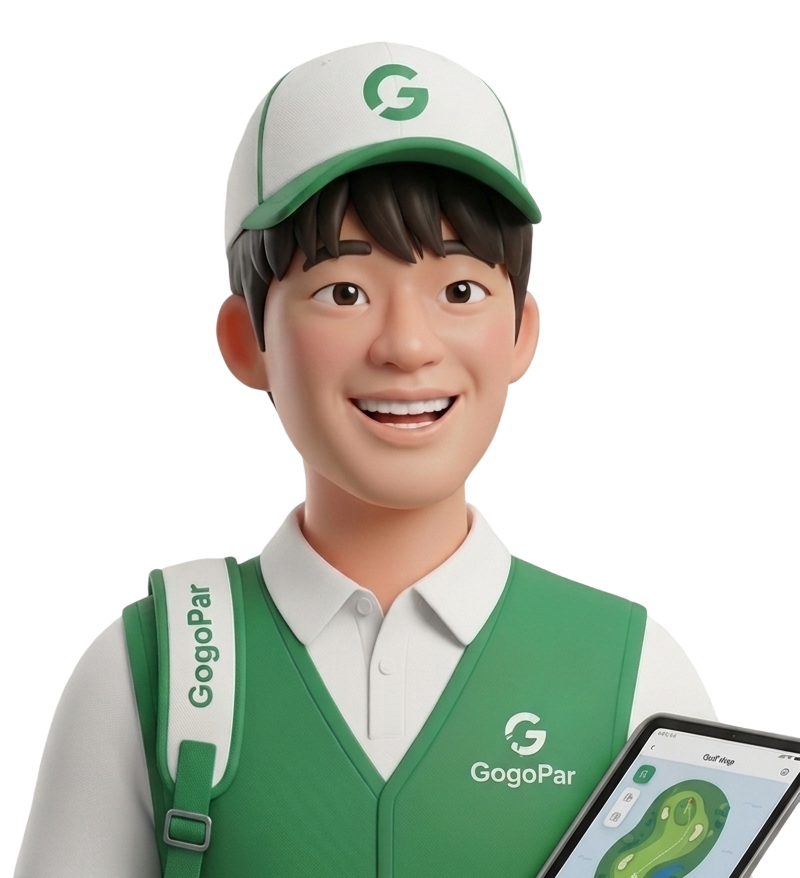
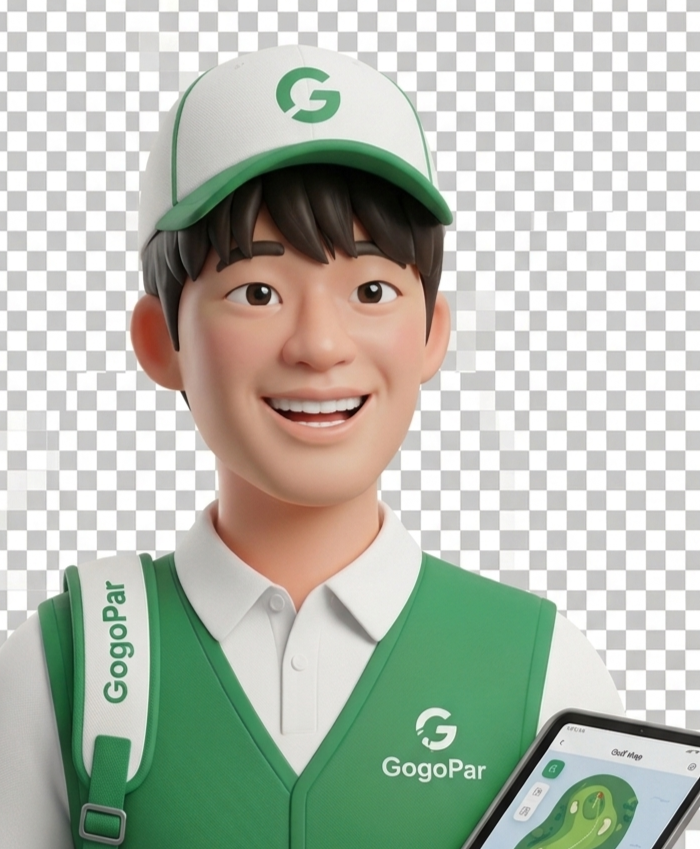
캐디카드 수정2

diff --git a/src/features/home/components/PremiumGogoCaddieCard.tsx b/src/features/home/components/PremiumGogoCaddieCard.tsx
@@ -186,16 +186,16 @@ const styles = StyleSheet.create({
     overflow: 'hidden',
   },
   characterImage: {
-    width: 130,
-    height: 174,
-    marginBottom: -18,
+    width: 132,
+    height: 160,
+    marginBottom: -14,
   },
   rightColumn: {
     flex: 1,
     minWidth: 0,
   },
   slide: {
-    justifyContent: 'space-between',
+    justifyContent: 'flex-start',
     paddingRight: 1,
   },
   content: {
@@ -207,17 +207,17 @@ const styles = StyleSheet.create({
   messageIcon: { fontSize: 13, lineHeight: 17 },
   message: { flex: 1, minWidth: 0, fontSize: 12, lineHeight: 17, fontWeight: '800' },
   primaryAction: {
-    minHeight: 38,
+    minHeight: 34,
     borderRadius: radius.lg,
     paddingHorizontal: 13,
-    marginTop: 10,
+    marginTop: 8,
     flexDirection: 'row',
     alignItems: 'center',
     justifyContent: 'space-between',
   },
   primaryActionText: { color: '#fff', fontSize: 12, fontWeight: '900' },
   primaryActionArrow: { color: '#fff', fontSize: 20, lineHeight: 22, fontWeight: '700' },
-  paginationRow: { flexDirection: 'row', alignItems: 'center', justifyContent: 'center', gap: 5, marginTop: 8 },
+  paginationRow: { flexDirection: 'row', alignItems: 'center', justifyContent: 'center', gap: 5, marginTop: 6 },
   paginationDot: { width: 5, height: 5, borderRadius: 3 },
   paginationDotActive: { width: 16 },
   pageText: { fontSize: 9, lineHeight: 12, fontWeight: '800', marginLeft: 3 },
